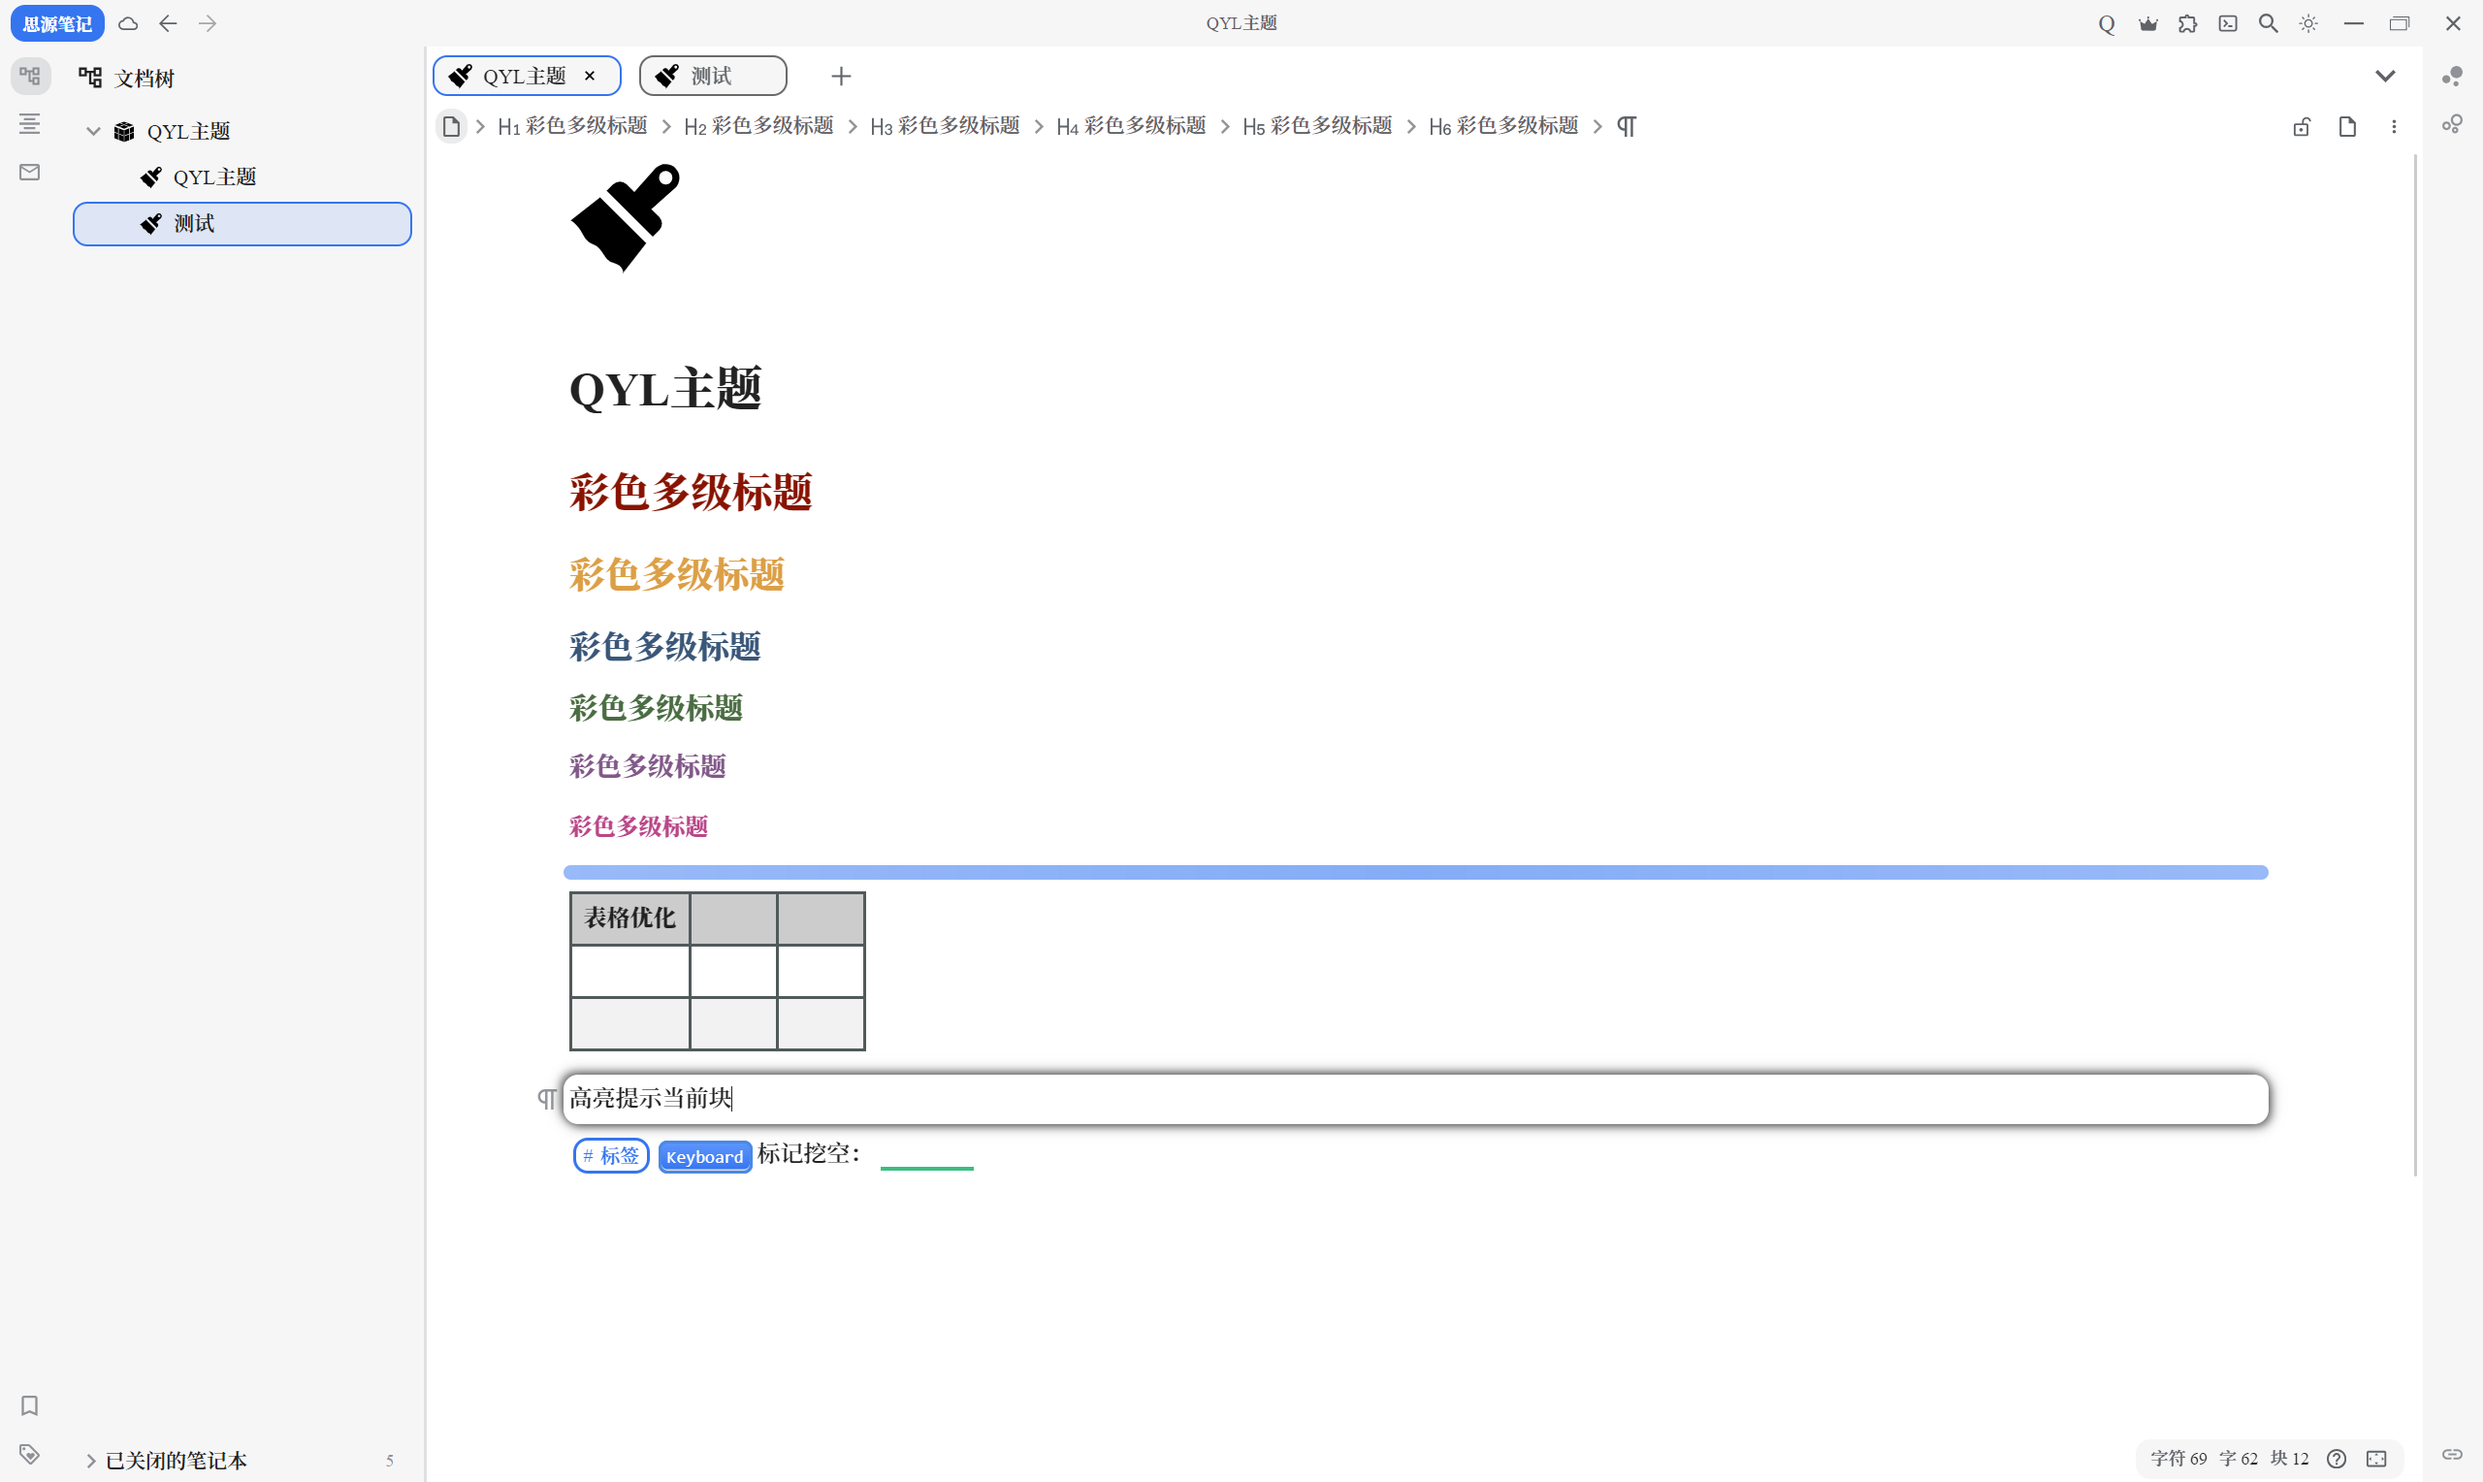
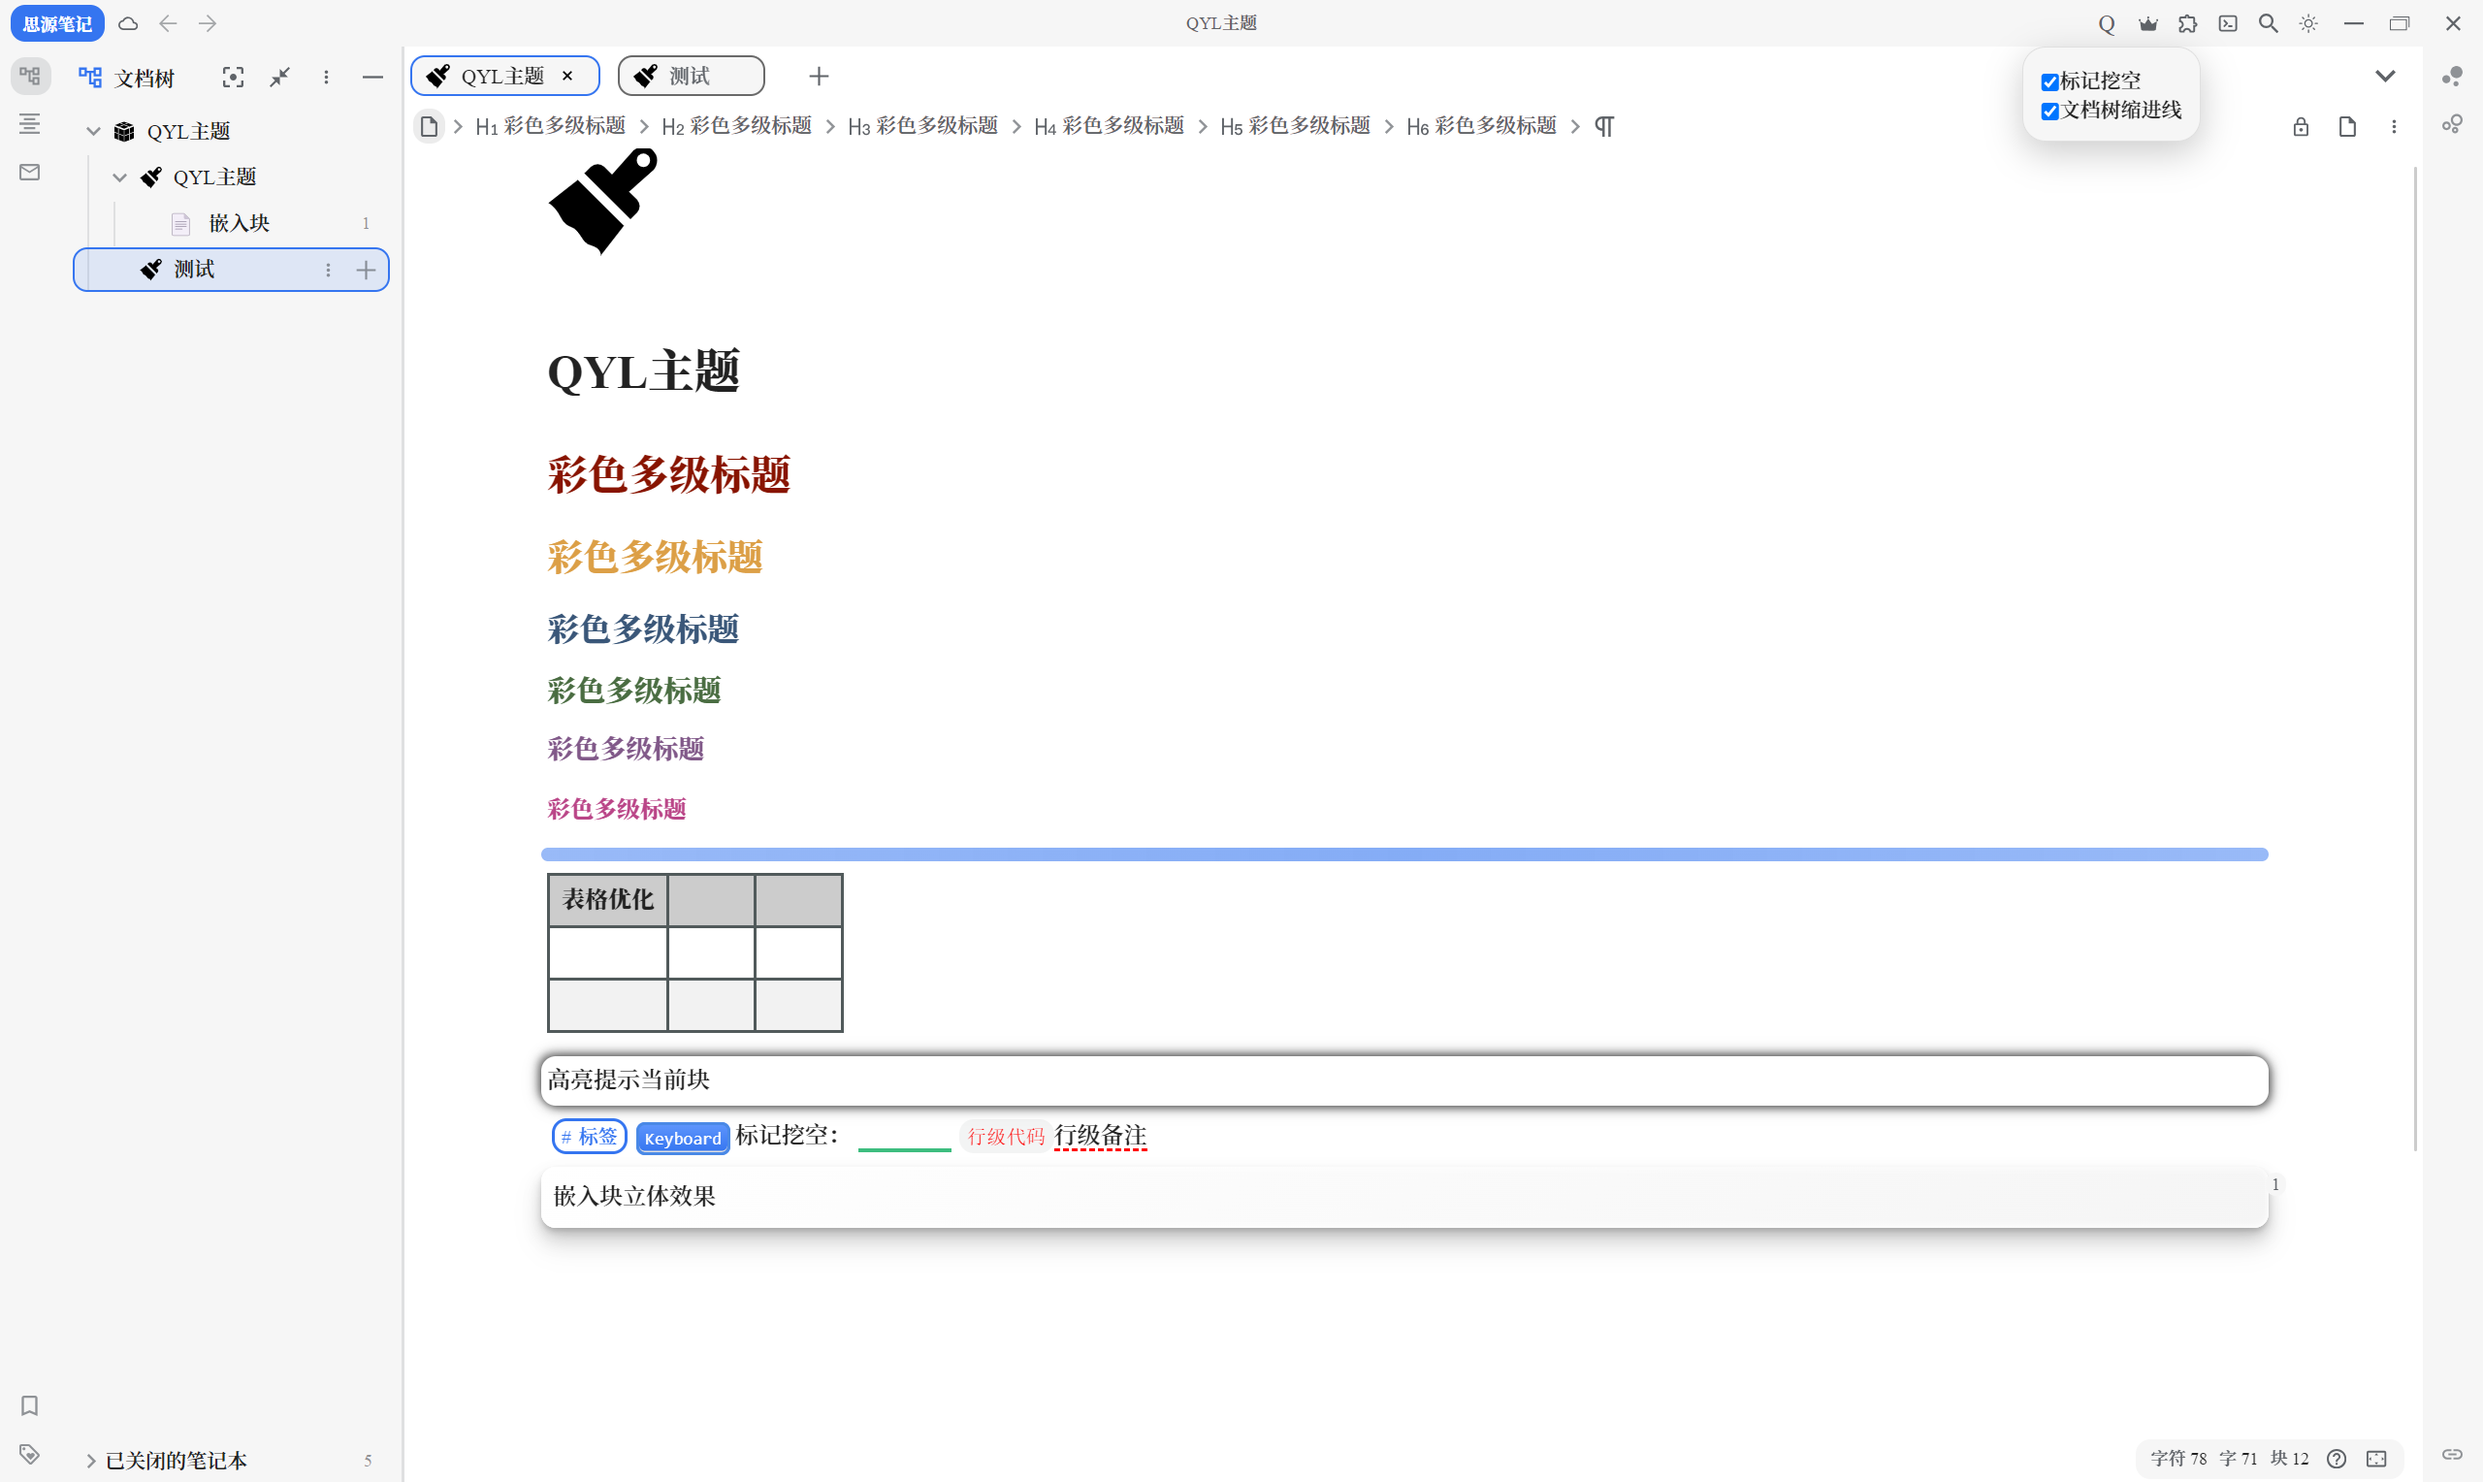
Add files via upload

diff --git a/theme.js b/theme.js
@@ -85,10 +85,20 @@ function createSettingsWindow() {
     checkbox1.id = 'mark-empty-checkbox';
     checkbox1.checked = isChecked;
 
-    const label1 = document.createElement('label1');
+    const label1 = document.createElement('label');
     label1.htmlFor = 'mark-empty-checkbox';
     label1.textContent = '标记挖空';
     label1.style.fontSize = '14px';
+
+    const checkbox2 = document.createElement('input');
+    checkbox2.type = 'checkbox';
+    checkbox2.id = 'filetree-indent-checkbox';
+    checkbox2.checked = isChecked;
+
+    const label2 = document.createElement('label');
+    label2.htmlFor = 'filetree-indent-checkbox';
+    label2.textContent = '文档树缩进线';
+    label2.style.fontSize = '14px';
 
     // 将复选框和标签组合
     const QYLfunctionpair1 = document.createElement('div');
@@ -96,8 +106,14 @@ function createSettingsWindow() {
     QYLfunctionpair1.appendChild(checkbox1);
     QYLfunctionpair1.appendChild(label1);
 
+    const QYLfunctionpair2 = document.createElement('div');
+    QYLfunctionpair2.className = 'checkbox-label-pair';
+    QYLfunctionpair2.appendChild(checkbox2);
+    QYLfunctionpair2.appendChild(label2);
+
     // 将复选框和标签添加到设置窗口
     settingsWindow.appendChild(QYLfunctionpair1);
+    settingsWindow.appendChild(QYLfunctionpair2);
 
     // 将设置窗口添加到body
     document.body.appendChild(settingsWindow);
@@ -109,6 +125,16 @@ function createSettingsWindow() {
             enableMarkStyles();
         } else {
             disableMarkStyles();
+        }
+    });
+
+    // 文档树缩进线开关
+    checkbox2.addEventListener('change', function() {
+        isChecked = this.checked;
+        if (this.checked) {
+            enableIndentStyle();
+        } else {
+            disableIndentStyle();
         }
     });
 
@@ -164,6 +190,40 @@ function enableMarkStyles() {
 // 关闭标记挖空功能
 function disableMarkStyles() {
     const styleSheet = document.getElementById("mark-styles");
+    if (styleSheet) {
+        styleSheet.innerText = '';
+    }
+}
+
+// 开启文档树缩进线功能
+function enableIndentStyle() {
+    let styleSheet = document.getElementById("indent-style");
+    if (!styleSheet) {
+        styleSheet = document.createElement("style");
+        styleSheet.id = "indent-style";
+        document.head.appendChild(styleSheet);
+    }
+    styleSheet.innerText = `
+        .file-tree>.fn__flex-1 {
+        --indent-color-inactive: rgb(from var(--b3-theme-on-background) r g b / .15);
+        --indent-color-active: rgb(from var(--b3-theme-on-background) r g b / .3);
+        --indent-color: #0000 }
+        .file-tree>.fn__flex-1>ul>ul { background-image: linear-gradient(90deg, rgba(0, 0, 0, 0) 0 18px, var(--indent-color) 18px 19.5px, rgba(0, 0, 0, 0) 19.5px 100%) }
+        .file-tree>.fn__flex-1>ul>ul>ul { background-image: linear-gradient(90deg, rgba(0, 0, 0, 0) 0 36px, var(--indent-color) 36px 37.5px, rgba(0, 0, 0, 0) 37.5px 100%) }
+        .file-tree>.fn__flex-1>ul>ul>ul>ul { background-image: linear-gradient(90deg, rgba(0, 0, 0, 0) 0 54px, var(--indent-color) 54px 55.5px, rgba(0, 0, 0, 0) 55.5px 100%) }
+        .file-tree>.fn__flex-1>ul>ul>ul>ul>ul { background-image: linear-gradient(90deg, rgba(0, 0, 0, 0) 0 72px, var(--indent-color) 72px 73.5px, rgba(0, 0, 0, 0) 73.5px 100%) }
+        .file-tree>.fn__flex-1>ul>ul>ul>ul>ul>ul { background-image: linear-gradient(90deg, rgba(0, 0, 0, 0) 0 90px, var(--indent-color) 90px 91.5px, rgba(0, 0, 0, 0) 91.5px 100%) }
+        .file-tree>.fn__flex-1>ul>ul>ul>ul>ul>ul>ul { background-image: linear-gradient(90deg, rgba(0, 0, 0, 0) 0 108px, var(--indent-color) 108px 109.5px, rgba(0, 0, 0, 0) 109.5px 100%) }
+        .file-tree>.fn__flex-1>ul>ul>ul>ul>ul>ul>ul>ul { background-image: linear-gradient(90deg, rgba(0, 0, 0, 0) 0 126px, var(--indent-color) 126px 127.5px, rgba(0, 0, 0, 0) 127.5px 100%) }
+        .file-tree>.fn__flex-1>ul ul { transition-duration: .2s; transition-property: --indent-color,height }
+        .file-tree>.fn__flex-1:hover>ul ul,.file-tree>.fn__flex-1 li.b3-list-item--focus+ul,.file-tree>.fn__flex-1 ul.has-focus { --indent-color: var(--b3-theme-background-light) }
+        .file-tree>.fn__flex-1:hover li.b3-list-item--focus+ul,.file-tree>.fn__flex-1:hover ul.has-focus { --indent-color: var(--b3-theme-primary) }
+    `;
+}
+
+// 关闭文档树缩进功能
+function disableIndentStyle() {
+    const styleSheet = document.getElementById("indent-style");
     if (styleSheet) {
         styleSheet.innerText = '';
     }

diff --git a/theme.css b/theme.css
@@ -15,7 +15,8 @@
     --b3-theme-surface-lighter: #e0e0e0;
     --b3-theme-error: #d23f31;
     --b3-theme-success: #65b84d;
-    --b3-theme-notfocus: #6a6a6a; 
+    --b3-theme-notfocus: #6a6a6a;
+    --b3-protyle-inline-mark-background: rgb(61, 189, 127, 0.3);/* 标记色 */
 
     /* 文字颜色 */
     --b3-theme-on-primary: #fff;
@@ -124,7 +125,7 @@
 .hr {
     border: none;
     position: relative;
-    height: 2px;
+    height: 1px;
     overflow: hidden;
 }
 .hr::before {
@@ -159,6 +160,7 @@ th, tr:nth-child(odd) td, tr:nth-child(even) td { border: 2px solid #515A5B !imp
 th { background-color: rgba(0, 0, 0, 0.2) ; }
 tr:nth-child(odd) td { background-color: rgba(0, 0, 0, 0) ; }
 tr:nth-child(even) td { background-color: rgba(0, 0, 0, 0.05) !important; }
+
 
 /* 块提示 */
 .sb:hover {
@@ -329,6 +331,7 @@ li.item.item--readonly {
 }
 .b3-menu__item {
     border: 1.5px solid rgba(255, 0, 0, 0) !important;
+    margin: 0px;
 }
 
 /* 任务列表 */
@@ -337,6 +340,9 @@ li.item.item--readonly {
 }
 .protyle .protyle-wysiwyg .li[data-subtype=o]>.protyle-action:hover::after, .protyle .protyle-wysiwyg .li[data-subtype=u]>.protyle-action:hover::after, .protyle .protyle-wysiwyg[data-readonly=false] .li[data-subtype=t]>.protyle-action:hover::after {
     background-color: var(--b3-theme-primary-lightest);
+}
+.av__checkbox:hover, .av__firstcol svg:hover {
+    color: var(--b3-theme-primary);
 }
 
 /* 界面整体优化 */
@@ -354,4 +360,62 @@ li.item.item--readonly {
 }
 .layout__resize--lr::after {
     width: 2px;
+}
+.block__logoicon {
+    color: var(--b3-theme-primary);
+}
+
+/* 超链接 */
+.protyle-wysiwyg [data-node-id] span[data-type~=a]:hover {
+    background-color: rgb(66, 133, 244, 0.2);
+    border-bottom: none;
+    transition: 0.25s;
+}
+.protyle-wysiwyg [data-node-id] span[data-type~=block-ref]:not(.av__celltext):hover, .protyle-wysiwyg [data-node-id] span[data-type~=file-annotation-ref]:hover {
+    background-color: rgb(137, 87, 229, 0.2);
+    transition: 0.25s;
+}
+.protyle-wysiwyg[data-readonly=true] .av .av__celltext--url, .av__celltext.av__celltext--url, .av__celltext--url.b3-chip {
+    color: rgb(137, 87, 229);
+}
+.protyle-wysiwyg[data-readonly=true] .av .av__celltext--url:hover, .av__celltext.av__celltext--url:hover, .av__celltext--url.b3-chip:hover {
+    background-color: rgb(137, 87, 229, 0.2);
+    transition: 0.25s;
+}
+
+/* 块属性 */
+.protyle-wysiwyg--attr .protyle-attr>div:not(.protyle-attr--memo):not(.protyle-attr--refcount) {
+    color: var(--b3-theme-primary);
+    border-radius: var(--b3-border-radius);
+}
+.protyle-wysiwyg--attr .protyle-attr>div:not(.protyle-attr--memo):not(.protyle-attr--refcount):hover {
+    background-color: var(--b3-theme-primary-lightest);
+}
+.protyle-attr>div:not(.protyle-attr--refcount).protyle-attr--memo svg {
+    color: var(--b3-theme-error);
+}
+
+/* 闪卡标识 */
+.protyle-wysiwyg [data-node-id][custom-riff-decks] {
+    box-shadow: -5px 0 0 0 #3DBD7F;
+    transition: 0s;
+}
+
+/* 嵌入块 */
+.protyle-wysiwyg [data-node-id].render-node[data-type=NodeBlockQueryEmbed] {
+    background: linear-gradient(145deg, #ffffff, #f5f5f5);
+    box-shadow: 0 2px 4px rgba(0, 0, 0, 0.1), 0 4px 6px rgba(0, 0, 0, 0.1), 0 8px 12px rgba(0, 0, 0, 0.1), 0 12px 18px rgba(0, 0, 0, 0.1), inset 0 -2px 4px rgba(255, 255, 255, 0.7), inset 0 2px 4px rgba(255, 255, 255, 0.5);
+    border: none;
+}
+
+/* 行级备注 */
+.b3-typography span[data-type~=inline-memo], .protyle-wysiwyg span[data-type~=inline-memo] {
+    background-color: rgba(255, 0, 0, 0);
+    border-bottom: 2px dashed red;
+}
+
+.file-tree>.fn__flex-1 {
+    --indent-color-inactive: rgb(from var(--b3-theme-on-background) r g b / .15);
+    --indent-color-active: rgb(from var(--b3-theme-on-background) r g b / .3);
+    --indent-color: #0000
 }

diff --git a/README_zh_CN.md b/README_zh_CN.md
@@ -3,12 +3,19 @@
 
 * 不改变原版的基本配色，只修改部分样式和优化部分功能，最大程度确保兼容性
 * 全局字体改为思源宋体
-* 表格样式优化
+* 表格、标签样式优化
 * 高亮提示编辑块、悬浮块、超级块
 * 斜杠`/`菜单横铺，参考了<https://ld246.com/article/1724305128590>
 * 底部状态栏浮动到右侧，部分内容参考了<https://ld246.com/article/1724305128590>
 * 页签栏样式优化，部分内容参考了<https://ld246.com/article/1724305128590>
 * 其他样式改动......
+
+## v1.1.1
+* 增加鼠标悬浮显示文档树缩进线功能，可通过顶部工具栏的Q按钮开启或关闭（参考了Asri主题）
+* 增加超链接的鼠标悬浮效果
+* 修改标记颜色，与挖空颜色统一
+* 修改嵌入块样式
+* 修改行级备注样式
 
 ## v1.1.0
 * 增加标记挖空功能，可通过顶部工具栏的Q按钮开启或关闭
